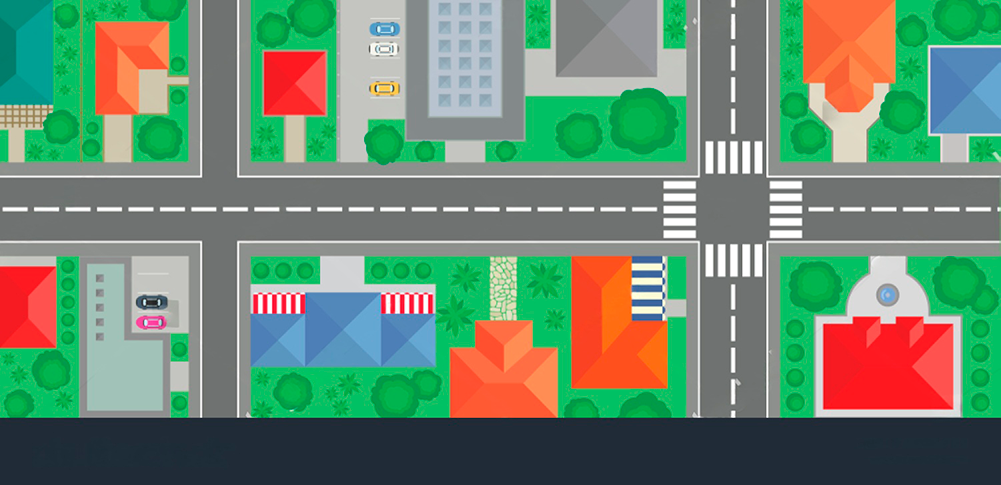
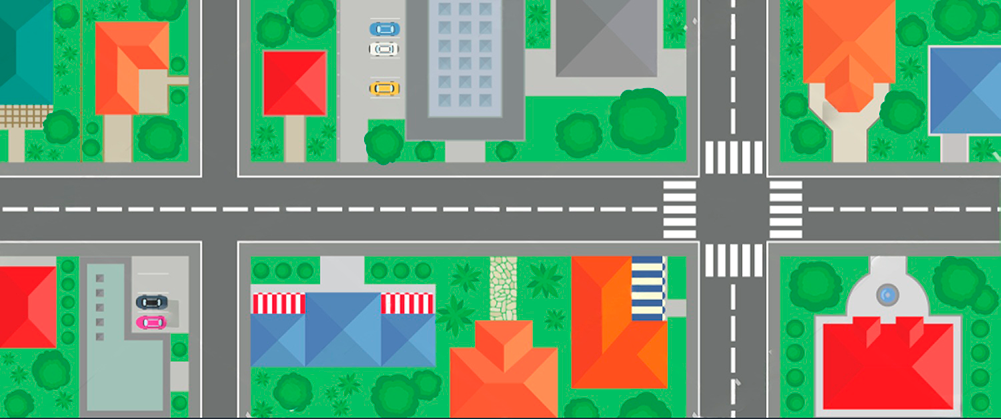
v3

diff --git a/Escenario.java b/Escenario.java
@@ -33,6 +33,12 @@ public class Escenario extends JPanel implements KeyListener, ActionListener {
     String r_motoL = "imagenes/vehiculos/Lmoto.png";
     String r_camion_rojoL = "imagenes/vehiculos/Lcamion_rojo.png";
 
+    // ruta elementos vehiculos arriba
+    String r_camion_grisU = "imagenes/vehiculos/up/Ucamion_gris.png";
+
+    // rutas elementos vehiculos abajo
+    String r_camion_grisD = "imagenes/vehiculos/down/Dcamion_gris.png";
+
     // Atributos ganas
     String r_moneda = "imagenes/atributos/monedapuntos.png";
     String r_esfera = "imagenes/atributos/esfera.gif";
@@ -44,25 +50,28 @@ public class Escenario extends JPanel implements KeyListener, ActionListener {
         monedas = new ArrayList<>();
 
         // fondo aleatorio
-        int fondo_Aleatorio = 20;// generaAleatorio(1, 30);
+        int fondo_Aleatorio =  generaAleatorio(1, 30);
 
         if (fondo_Aleatorio <= 10) {
             miFondo = new Fondo(0, 0, r_fondo1);
             dibujarVehiculosDerecha(50, 180);
-            miJugador = new Jugador(400, 100, rutaJugador);
+            dibujarVehiculosIzquierda(0, 130);
+            miJugador = new Jugador(500, 40, rutaJugador);
 
-        } else if (fondo_Aleatorio == 20) {
+        } else if (fondo_Aleatorio <= 20) {
             miFondo = new Fondo(0, 0, r_fondo2);
-            dibujarVehiculosDerecha(100, 200); 
+            dibujarVehiculosDerecha(100, 200);
             dibujarVehiculosDerecha(-400, 350);
             dibujarVehiculosIzquierda(0, 100);
             dibujarVehiculosIzquierda(0, 470);
-            miJugador = new Jugador(400, 100, rutaJugador);
+            miJugador = new Jugador(500, 270, rutaJugador);
 
         } else {
             miFondo = new Fondo(0, 0, r_fondo3);
             dibujarVehiculosDerecha(200, 120);
-            miJugador = new Jugador(400, 100, rutaJugador);
+            dibujarVehiculosAbajo(350, 0);
+            dibujarVehiculosArriba(680, 0);
+            miJugador = new Jugador(300, 250, rutaJugador);
         }
 
         setFocusable(true);
@@ -78,6 +87,26 @@ public class Escenario extends JPanel implements KeyListener, ActionListener {
         setSize(ancho, alto);
     }
 
+    public void dibujarVehiculosArriba(int posx, int posy) { // metodo para dibujar hacia arriba
+        int opcion = generaAleatorio(1, 2);
+
+        if (opcion == 1) {
+            vehiculos.add(new Vehiculo(posx, posy, r_camion_grisU));
+        } else { //pendiente de mas vehiculos arriba
+            vehiculos.add(new Vehiculo(posx, posy, r_camion_grisU));
+        }
+    }
+
+    public void dibujarVehiculosAbajo(int posx, int posy) { // metodo para dibujar hacia abajo
+        int opcion = generaAleatorio(1, 2);
+
+        if (opcion == 1) {
+            vehiculos.add(new Vehiculo(posx, posy, r_camion_grisD));
+        } else { //pendiente de mas vehiculos abajo
+            vehiculos.add(new Vehiculo(posx, posy, r_camion_grisD));
+        }
+    }
+
     public void dibujarVehiculosDerecha(int posx, int posy) { // metodo para dibujar los vehiculos
         int opcion = generaAleatorio(1, 2);
 
@@ -86,15 +115,16 @@ public class Escenario extends JPanel implements KeyListener, ActionListener {
             vehiculos.add(new Vehiculo(-300, posy, r_camion_orangeR));
             vehiculos.add(new Vehiculo(-600, posy, r_moto_azulR));
             vehiculos.add(new Vehiculo(-900, posy, r_camion_verdeR));
+            vehiculos.add(new Vehiculo(-1200, posy, r_motoR));
         } else {
             vehiculos.add(new Vehiculo(posx, posy, r_camion_orangeR));
-            vehiculos.add(new Vehiculo(-600, posy, r_motoR));
+            vehiculos.add(new Vehiculo(0, posy, r_motoR));
             vehiculos.add(new Vehiculo(-300, posy, r_camion_verdeR));
-            vehiculos.add(new Vehiculo(-900, posy, r_moto_azulR));
-           
-
+            vehiculos.add(new Vehiculo(-600, posy, r_moto_azulR));
+            vehiculos.add(new Vehiculo(-1200, posy, r_camion_orangeR));
         }
     }
+
     public void dibujarVehiculosIzquierda(int posx, int posy) { // metodo para dibujar los vehiculos
         int opcion = generaAleatorio(1, 2);
 
@@ -113,8 +143,8 @@ public class Escenario extends JPanel implements KeyListener, ActionListener {
     }
 
     public void agregarMonedaAleatoria() {
-        int x = generaAleatorio(50, ancho - 100);
-        int y = generaAleatorio(50, alto - 100);
+        int x = generaAleatorio(50, ancho - 200);
+        int y = generaAleatorio(50, alto - 200);
 
         if (generamoneda == 1) {
             monedas.add(new Moneda(x, y, r_diamante));
@@ -125,17 +155,20 @@ public class Escenario extends JPanel implements KeyListener, ActionListener {
         }
     }
 
-    // timer para mover vehículos
+    // timer para mover vehiculos
     public void actionPerformed(ActionEvent e) {
 
         for (Vehiculo v : vehiculos) {
             if (v.ruta.contains("L")) {
                 v.moverVehiculosEjeXIza();
+            } else if (v.ruta.contains("U")) {
+                v.moverVehiculosEjeYArriba();
+            } else if (v.ruta.contains("D")) {
+                v.moverVehiculosEjeYAbajo();
             } else {
-                v.moverVehiculosEjeXDere(); // derecha
+                v.moverVehiculosEjeXDere();
             }
         }
-
         repaint();
     }
 

diff --git a/Moneda.java b/Moneda.java
@@ -12,7 +12,6 @@ public class Moneda extends Coordenada {
         anchoImg = imagen.getWidth(null);
         altoImg = imagen.getHeight(null);
     }
-
     public void DibujaMoneda(Graphics g) {
         g.drawImage(imagen, x, y, null);
     }
@@ -23,15 +22,5 @@ public class Moneda extends Coordenada {
         altoImg = imagen.getHeight(null);
     }
 
-  
-    public void animarMoneda() {
-     
-    }
 
-    public void cambiarPosicionMoneda(int anchoPanel, int altoPanel) {
-        x = (int) (generaAleatorio(altoPanel, anchoPanel)) ;
-        y = (int) (generaAleatorio(altoPanel, altoPanel));
-    }
-
-    
 }

diff --git a/Frame.java b/Frame.java
@@ -9,7 +9,7 @@ public class Frame extends JFrame {
         add(miPanel);
 
         setSize(miPanel.getWidth(), miPanel.getHeight());
-        setDefaultCloseOperation(DISPOSE_ON_CLOSE); // Cierra solo esta ventana
+        setDefaultCloseOperation(DISPOSE_ON_CLOSE);
         setLocationRelativeTo(null);
     }
 }
